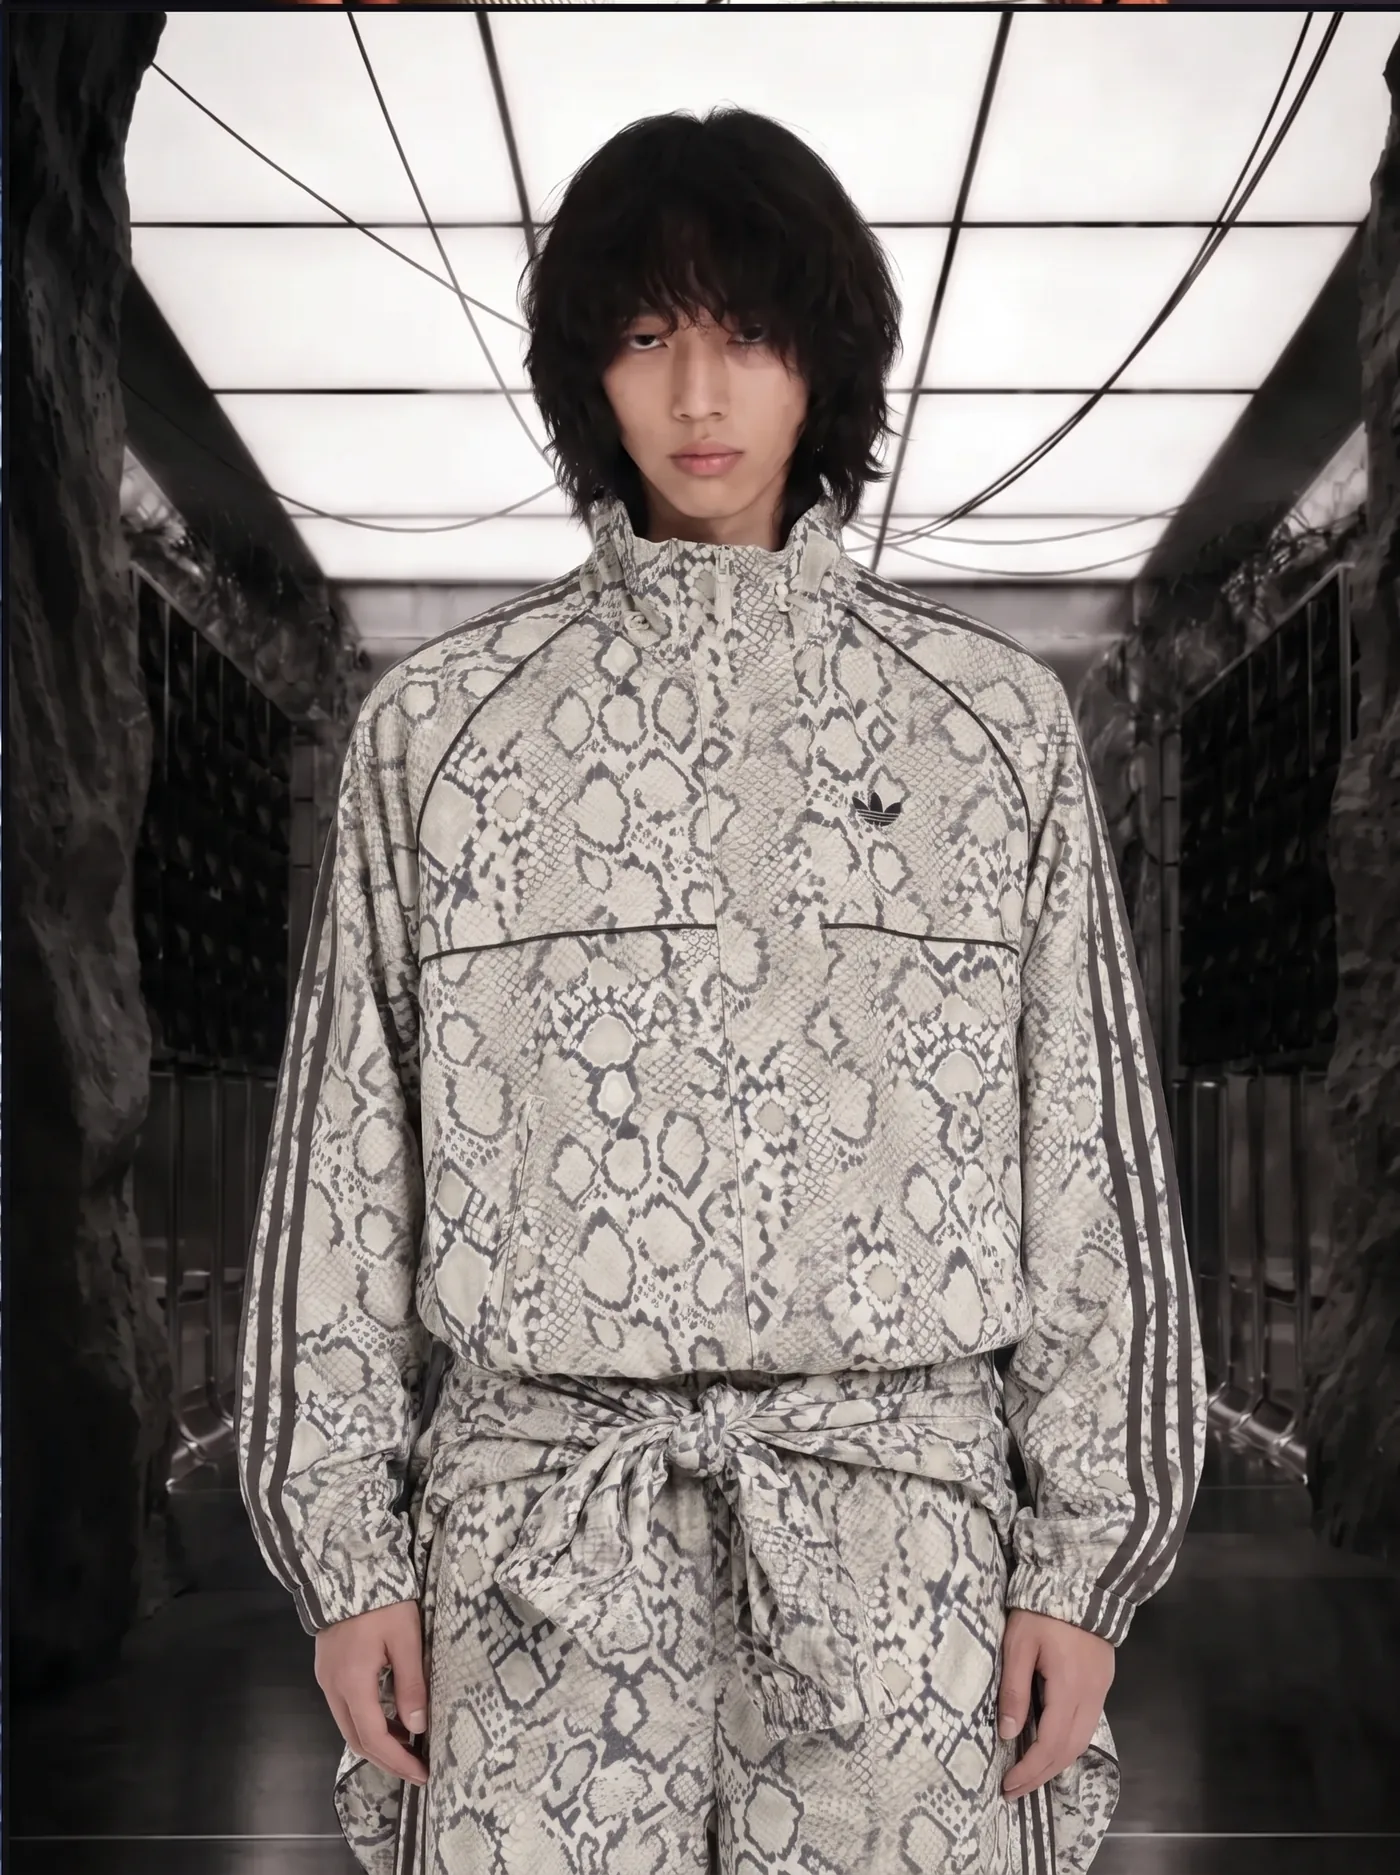
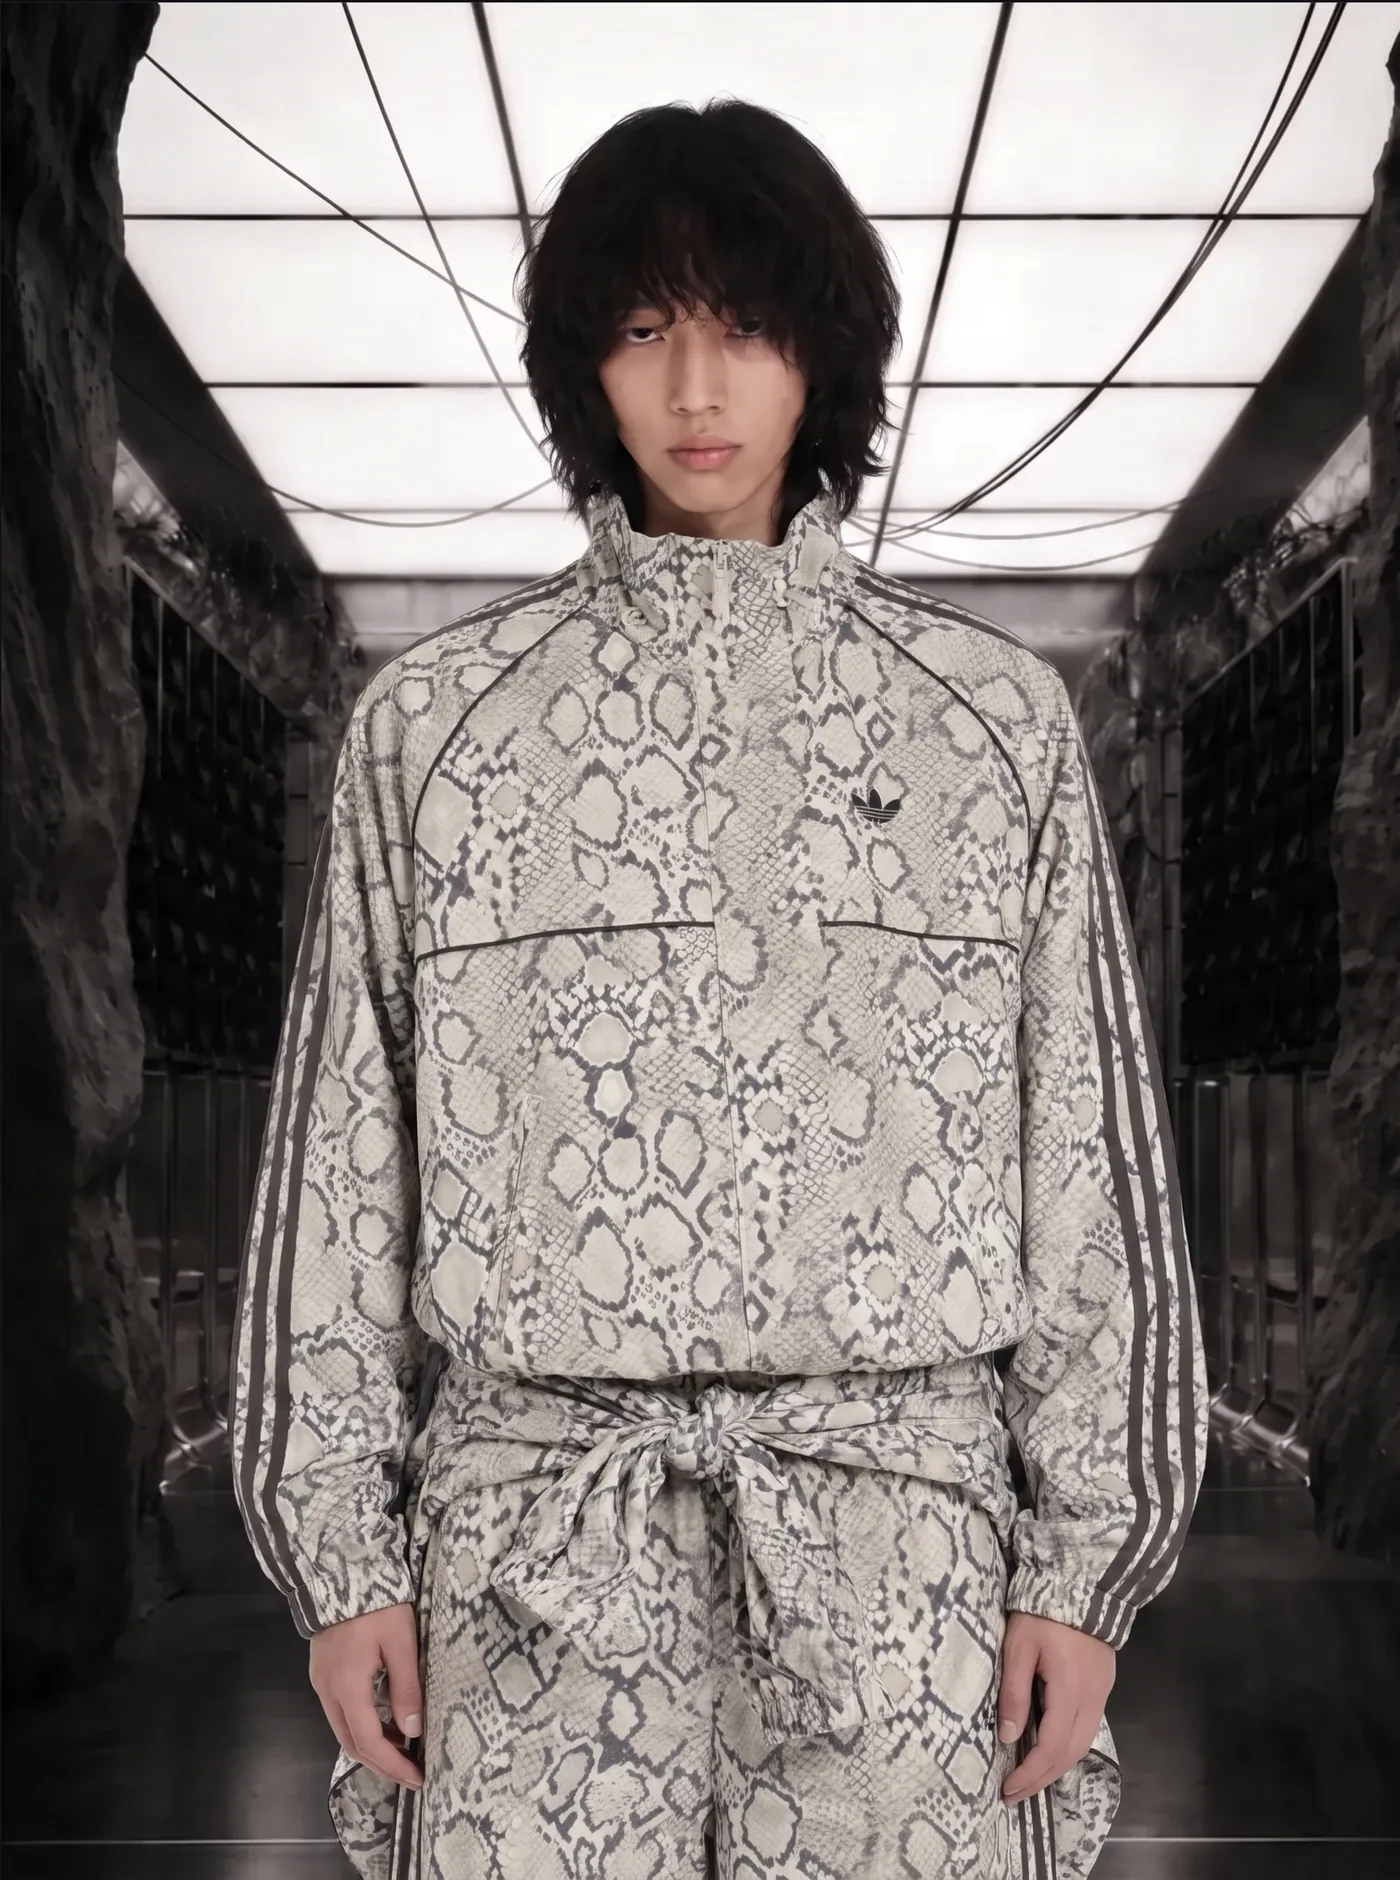
adidas: recorta el borde blanco de la imagen del pasillo
Claude-Session: https://claude.ai/code/session_014kqbFGhNYotMcvULNv4XdS

diff --git a/index.html b/index.html
@@ -436,7 +436,7 @@ body.cur-text .cur { opacity: 0; }
           <div class="mosaic">
             <a class="ph" href="#home" data-gallery="adidas"><img src="img/adidas-croc-cameras.webp" alt="Modelo con chaqueta adidas de cocodrilo blanca bajo un aro de luz rodeada de cámaras robóticas" loading="lazy"></a>
             <a class="ph" href="#home" data-gallery="adidas"><img src="img/adidas-python-portrait.webp" alt="Retrato con chándal adidas de pitón, gafas lilas y anillo metálico escultórico" loading="lazy"></a>
-            <a class="ph" href="#home" data-gallery="adidas"><img src="img/adidas-python-corridor.webp" alt="Modelo con chándal adidas de pitón en un pasillo de roca con techo de luz" loading="lazy"></a>
+            <a class="ph" href="#home" data-gallery="adidas"><img src="img/adidas-python-corridor.webp?v=2" alt="Modelo con chándal adidas de pitón en un pasillo de roca con techo de luz" loading="lazy"></a>
           </div>
         </section>
 
@@ -830,7 +830,7 @@ body.cur-text .cur { opacity: 0; }
     adidas: { t: "<b>adidas Originals</b> — Concepto de campaña con IA", imgs: [
       ["img/adidas-croc-cameras.webp","Modelo con chaqueta de cocodrilo blanca bajo un aro de luz rodeada de cámaras robóticas"],
       ["img/adidas-python-portrait.webp","Retrato con chándal de pitón, gafas lilas y anillo metálico escultórico"],
-      ["img/adidas-python-corridor.webp","Modelo con chándal de pitón en un pasillo de roca con techo de luz"],
+      ["img/adidas-python-corridor.webp?v=2","Modelo con chándal de pitón en un pasillo de roca con techo de luz"],
       ["img/adidas-croc-front.webp","Plano frontal de la chaqueta de cocodrilo con hebillas metálicas y cables"]]}
   };
   const gal = document.getElementById("gal"), gtrack = document.getElementById("gal-track");
